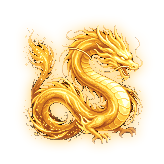
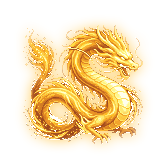
聖龍烈霸斬：立姿龍右移讓龍眼在人正上方、俯衝龍往右上一點；龍圖去掉黑色與深咖啡色像素
Claude-Session: https://claude.ai/code/session_01Dzx97mcwzs9H2Biqw1F1Mz

diff --git a/battle/index.html b/battle/index.html
@@ -3280,7 +3280,7 @@ function mumyoFx(e,d){if(d<0||d>MUMYO.end)return;var T=supTgt(e),q=j21Mon((e.tg|
   if(d>=MUMYO.hit&&d<MUMYO.hit+140){bScreen('#ffffff',(1-(d-MUMYO.hit)/140)*.55);shakeX=Math.round(Math.sin(d/6)*2.2*U)}/* 閃光 */
   FXA=fa}
 /* 金龍：黑色剪影那種線條，改成金色；先畫在小畫布上（朝右），用的時候旋轉 */
-var HDRI=[1,2,3].map(function(n){var im=new Image();im.src='../assets/vfx/hdragon'+n+'.png?v=1';return im}),HDRM=[[146,80],[148,136],[138,128]],HDRS=1;/* 金龍三張圖（他畫的），HDRM = 龍口在圖上的位置 */
+var HDRI=[1,2,3].map(function(n){var im=new Image();im.src='../assets/vfx/hdragon'+n+'.png?v=2';return im}),HDRM=[[122,80],[142,141],[138,128]],HDRS=1;/* 金龍三張圖（他畫的），HDRM = 龍口在圖上的位置 */
 var DRGC=null,DRGM=[80,46];/* DRGM = 施法者在小畫布上的位置（龍口下方） */
 function dragonSpr(){if(DRGC)return DRGC;var W=120,H=150,c=document.createElement('canvas');c.width=W;c.height=H;var x=c.getContext('2d'),OL='#6a3c04',GD='#ffc430',LT='#fff2a0';
   var rnd=(function(){var q=7;return function(){q=(q*9301+49297)%233280;return q/233280}})();
